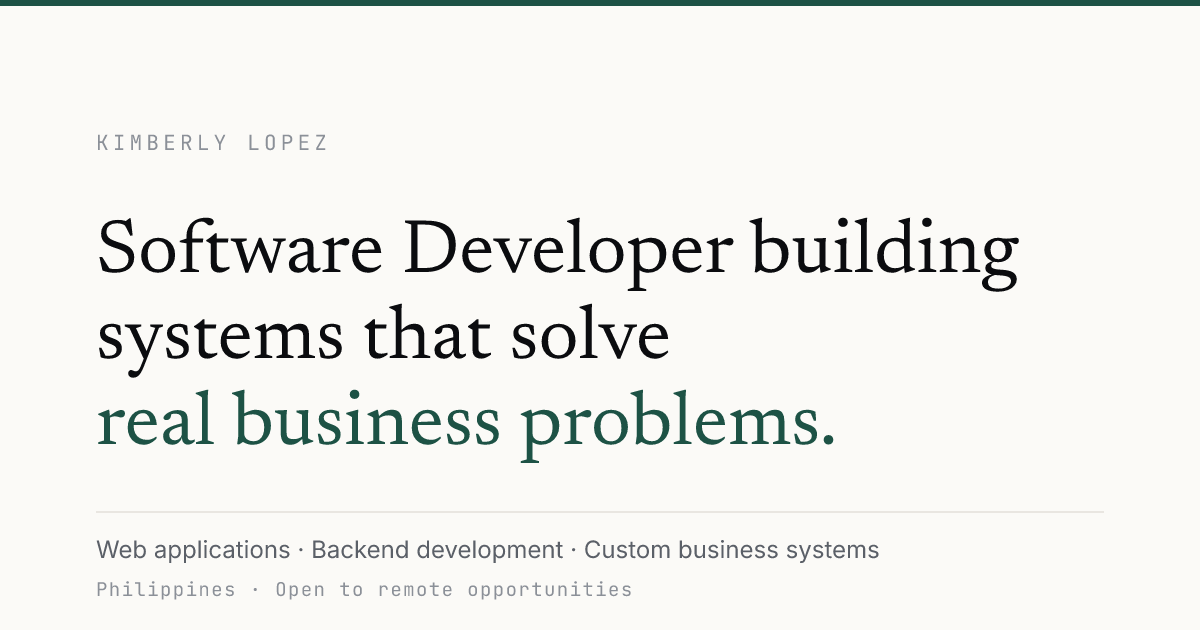
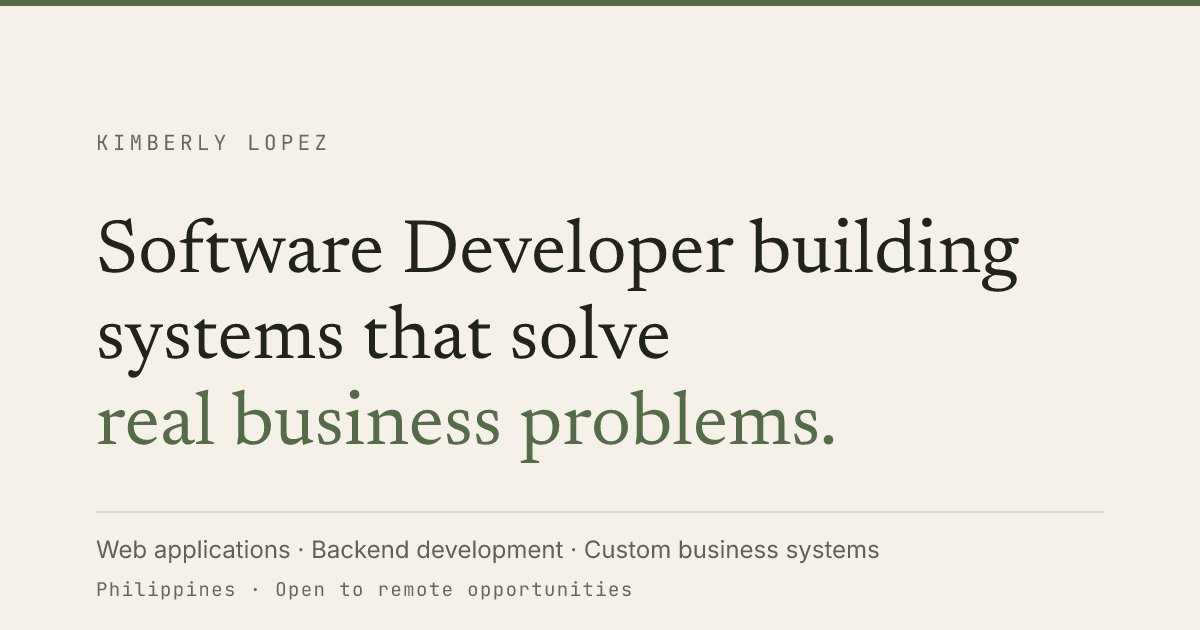
Recolour both themes: ink, rice paper, muted bamboo green
Colours only. No layout, typography, spacing or component changes.

Light mode moves off white onto warm rice paper with near-black ink and a
muted green accent. Dark mode is a dark ink ground with a subdued forest
green. Green stays an accent on buttons, links, small labels and rules, and
the large surfaces stay neutral in both themes. The antique gold in the brief
is not used anywhere, since nothing needed it and it read as decorative.

Two values were adjusted for contrast rather than used as given. The muted
grey #7b7d72 was 3.45:1 on the sunken surface, so it is darkened to #656761,
and the dark muted #8e9286 was 4.27:1 on the dark sage panel, so it is
lightened to #94988b. All 22 token pairs now pass AA.

Also recolours the standalone 404 page, the favicon, the social card and the
theme-color meta tags, which each carry their own copy of the palette. Drops
the dead .todo rules, which referenced tokens removed with the placeholder
machinery.

Copy change: PMAI now says "the production weighing workflow" and "helped
with the database documentation".

diff --git a/src/styles/app.css b/src/styles/app.css
@@ -8,38 +8,32 @@
 :root {
   color-scheme: light;
 
-  /* Surfaces */
-  --paper: #fbfaf7;
-  --surface: #ffffff;
-  --surface-sunken: #f4f2ee;
-  --surface-raised: #ffffff;
+  /* Warm rice paper, not white. */
+  --paper: #f5f1e8;
+  --surface: #faf8f2;
+  --surface-sunken: #eee9dc;
+  --surface-raised: #faf8f2;
 
   /* Ink */
-  --ink: #16181c;
-  --ink-strong: #0b0c0f;
-  --ink-muted: #5b6068;
-  /* 5.13:1 on --paper and 4.79:1 on --surface-sunken, which the For
-     Businesses section and the footer sit on. The original #8b9098 was
-     3.08:1 — a fail for the small mono labels this colour carries. */
-  --ink-faint: #666b73;
+  --ink: #20241d;
+  --ink-strong: #20241d;
+  --ink-muted: #5f6258;
+  /* Darkened from #7b7d72, which was 3.45:1 on the sunken surface and
+     failed AA on the small mono labels this colour carries. */
+  --ink-faint: #656761;
 
-  /* Accent — deep pine. One accent, used sparingly. */
-  --accent: #1d5245;
-  --accent-strong: #143a31;
-  --accent-soft: #e8efec;
-  --accent-ink: #ffffff;
-
-  /* Placeholder chips for unverified copy */
-  --todo-bg: #fdf6e3;
-  --todo-border: #d9b45f;
-  --todo-ink: #6b4e0e;
+  /* Muted bamboo green, used as an accent only. */
+  --accent: #566b47;
+  --accent-strong: #465b3b;
+  --accent-soft: #e4e8da;
+  --accent-ink: #faf8f2;
+  --accent-line: #89977a;
 
   /* Lines */
-  --line: #e3e0da;
-  --line-strong: #cfcbc3;
+  --line: #d8d2c3;
+  --line-strong: #c3bba6;
 
-  /* Focus */
-  --focus: #1d5245;
+  --focus: #3f5637;
 
   /* Type */
   --font-sans: 'Inter Variable', -apple-system, BlinkMacSystemFont, 'Segoe UI',
@@ -55,42 +49,40 @@
   --radius: 4px;
   --radius-lg: 8px;
 
-  --shadow-sm: 0 1px 2px rgba(16, 18, 22, 0.04),
-    0 1px 3px rgba(16, 18, 22, 0.03);
-  --shadow-md: 0 2px 4px rgba(16, 18, 22, 0.04),
-    0 12px 28px -12px rgba(16, 18, 22, 0.12);
+  --shadow-sm: 0 1px 2px rgba(32, 36, 29, 0.05),
+    0 1px 3px rgba(32, 36, 29, 0.04);
+  --shadow-md: 0 2px 4px rgba(32, 36, 29, 0.05),
+    0 12px 28px -12px rgba(32, 36, 29, 0.16);
 }
 
 :root[data-theme='dark'] {
   color-scheme: dark;
 
-  --paper: #0e1013;
-  --surface: #15181d;
-  --surface-sunken: #101317;
-  --surface-raised: #191d23;
+  /* Dark ink, never pure black. */
+  --paper: #111510;
+  --surface: #171c16;
+  --surface-sunken: #0d110c;
+  --surface-raised: #1c221b;
 
-  --ink: #e7e8ea;
-  --ink-strong: #f6f7f8;
-  --ink-muted: #a0a6ae;
-  /* 5.21:1 on the dark --paper. */
-  --ink-faint: #7f868f;
+  --ink: #ece9df;
+  --ink-strong: #ece9df;
+  --ink-muted: #b9bbaf;
+  /* Lightened from #8e9286, which was 4.27:1 on the dark sage surface. */
+  --ink-faint: #94988b;
 
-  --accent: #6fbfa5;
-  --accent-strong: #8fd4bc;
-  --accent-soft: #17251f;
-  --accent-ink: #0b1a15;
+  --accent: #8ea47a;
+  --accent-strong: #a0b48d;
+  --accent-soft: #263124;
+  --accent-ink: #111510;
+  --accent-line: #708660;
 
-  --todo-bg: #2a2413;
-  --todo-border: #8a6f2a;
-  --todo-ink: #e8cf90;
+  --line: #30382d;
+  --line-strong: #414a3d;
 
-  --line: #262b32;
-  --line-strong: #363c45;
+  --focus: #8ea47a;
 
-  --focus: #6fbfa5;
-
-  --shadow-sm: 0 1px 2px rgba(0, 0, 0, 0.4);
-  --shadow-md: 0 2px 4px rgba(0, 0, 0, 0.3), 0 16px 32px -16px rgba(0, 0, 0, 0.7);
+  --shadow-sm: 0 1px 2px rgba(0, 0, 0, 0.45);
+  --shadow-md: 0 2px 4px rgba(0, 0, 0, 0.35), 0 16px 32px -16px rgba(0, 0, 0, 0.75);
 }
 
 /* ---------------------------------------------------------------------------
@@ -350,48 +342,6 @@ button {
 .text-link:hover {
   color: var(--accent);
   border-bottom-color: var(--accent);
-}
-
-/* ---------------------------------------------------------------------------
-   Placeholder chip — unverified copy
-   --------------------------------------------------------------------------- */
-
-.todo {
-  display: inline-flex;
-  align-items: baseline;
-  gap: 0.45rem;
-  padding: 0.15rem 0.55rem;
-  border: 1px dashed var(--todo-border);
-  background: var(--todo-bg);
-  color: var(--todo-ink);
-  border-radius: var(--radius);
-  font-family: var(--font-mono);
-  font-size: 0.76rem;
-  line-height: 1.5;
-  font-weight: 500;
-}
-
-.todo::before {
-  content: 'needs input';
-  font-size: 0.62rem;
-  letter-spacing: 0.09em;
-  text-transform: uppercase;
-  opacity: 0.75;
-}
-
-/* Compact form for tight rows: keeps the amber signal without the label. */
-.todo--inline {
-  gap: 0.35rem;
-  padding: 0.4rem 0.75rem;
-  font-size: 0.8rem;
-  cursor: help;
-}
-
-.todo--inline::before {
-  content: '!';
-  font-size: 0.7rem;
-  letter-spacing: 0;
-  opacity: 0.85;
 }
 
 /* ---------------------------------------------------------------------------
@@ -1772,7 +1722,7 @@ button {
 
 .skill-group--primary .chip {
   background: var(--surface);
-  border-color: color-mix(in srgb, var(--accent) 25%, var(--line));
+  border-color: color-mix(in srgb, var(--accent-line) 45%, var(--line));
   color: var(--ink);
 }
 

diff --git a/public/404.html b/public/404.html
@@ -12,12 +12,12 @@
     <style>
       :root {
         color-scheme: light;
-        --paper: #fbfaf7;
-        --ink: #0b0c0f;
-        --muted: #5b6068;
-        --faint: #666b73;
-        --accent: #1d5245;
-        --line: #e3e0da;
+        --paper: #f5f1e8;
+        --ink: #20241d;
+        --muted: #5f6258;
+        --faint: #656761;
+        --accent: #566b47;
+        --line: #d8d2c3;
       }
       :root[data-theme='dark'],
       html:not([data-theme='light']) {
@@ -26,12 +26,12 @@
       @media (prefers-color-scheme: dark) {
         :root {
           color-scheme: dark;
-          --paper: #0e1013;
-          --ink: #f6f7f8;
-          --muted: #a0a6ae;
-          --faint: #7f868f;
-          --accent: #6fbfa5;
-          --line: #262b32;
+          --paper: #111510;
+          --ink: #ece9df;
+          --muted: #b9bbaf;
+          --faint: #94988b;
+          --accent: #8ea47a;
+          --line: #30382d;
         }
       }
       * {

diff --git a/src/data/content.js b/src/data/content.js
@@ -62,7 +62,7 @@ export const projects = [
     worked: [
       {
         title: 'Production weighing',
-        text: 'I worked on the weighing side, including live scale readings, automatic SKU assignment, QR labels, and CSV export.',
+        text: 'I worked on the production weighing workflow, including live scale readings, automatic SKU assignment, QR labels, and CSV export.',
       },
       {
         title: 'Further processing',
@@ -78,7 +78,7 @@ export const projects = [
       },
     ],
     workedNote:
-      'I also fixed issues involving timezone handling, printed weights, and report performance, and worked on the database documentation.',
+      'I also fixed issues with timezone handling, printed weights, and report performance, and helped with the database documentation.',
     tech: [
       'PHP',
       'Laravel',

diff --git a/index.html b/index.html
@@ -4,8 +4,8 @@
     <meta charset="UTF-8" />
     <meta name="viewport" content="width=device-width, initial-scale=1" />
     <meta name="color-scheme" content="light dark" />
-    <meta name="theme-color" content="#fbfaf7" media="(prefers-color-scheme: light)" />
-    <meta name="theme-color" content="#0e1013" media="(prefers-color-scheme: dark)" />
+    <meta name="theme-color" content="#f5f1e8" media="(prefers-color-scheme: light)" />
+    <meta name="theme-color" content="#111510" media="(prefers-color-scheme: dark)" />
     <link rel="icon" type="image/svg+xml" href="/favicon.svg" />
 
     <title>Kimberly Lopez | Full-Stack Software Developer</title>

diff --git a/work/pmai-warehouse/index.html b/work/pmai-warehouse/index.html
@@ -4,8 +4,8 @@
     <meta charset="UTF-8" />
     <meta name="viewport" content="width=device-width, initial-scale=1" />
     <meta name="color-scheme" content="light dark" />
-    <meta name="theme-color" content="#fbfaf7" media="(prefers-color-scheme: light)" />
-    <meta name="theme-color" content="#0e1013" media="(prefers-color-scheme: dark)" />
+    <meta name="theme-color" content="#f5f1e8" media="(prefers-color-scheme: light)" />
+    <meta name="theme-color" content="#111510" media="(prefers-color-scheme: dark)" />
     <link rel="icon" type="image/svg+xml" href="/favicon.svg" />
 
     <title>PMAI Warehouse System | Kimberly Lopez</title>

diff --git a/work/sopod/index.html b/work/sopod/index.html
@@ -4,8 +4,8 @@
     <meta charset="UTF-8" />
     <meta name="viewport" content="width=device-width, initial-scale=1" />
     <meta name="color-scheme" content="light dark" />
-    <meta name="theme-color" content="#fbfaf7" media="(prefers-color-scheme: light)" />
-    <meta name="theme-color" content="#0e1013" media="(prefers-color-scheme: dark)" />
+    <meta name="theme-color" content="#f5f1e8" media="(prefers-color-scheme: light)" />
+    <meta name="theme-color" content="#111510" media="(prefers-color-scheme: dark)" />
     <link rel="icon" type="image/svg+xml" href="/favicon.svg" />
 
     <title>SOPOD | Kimberly Lopez</title>
